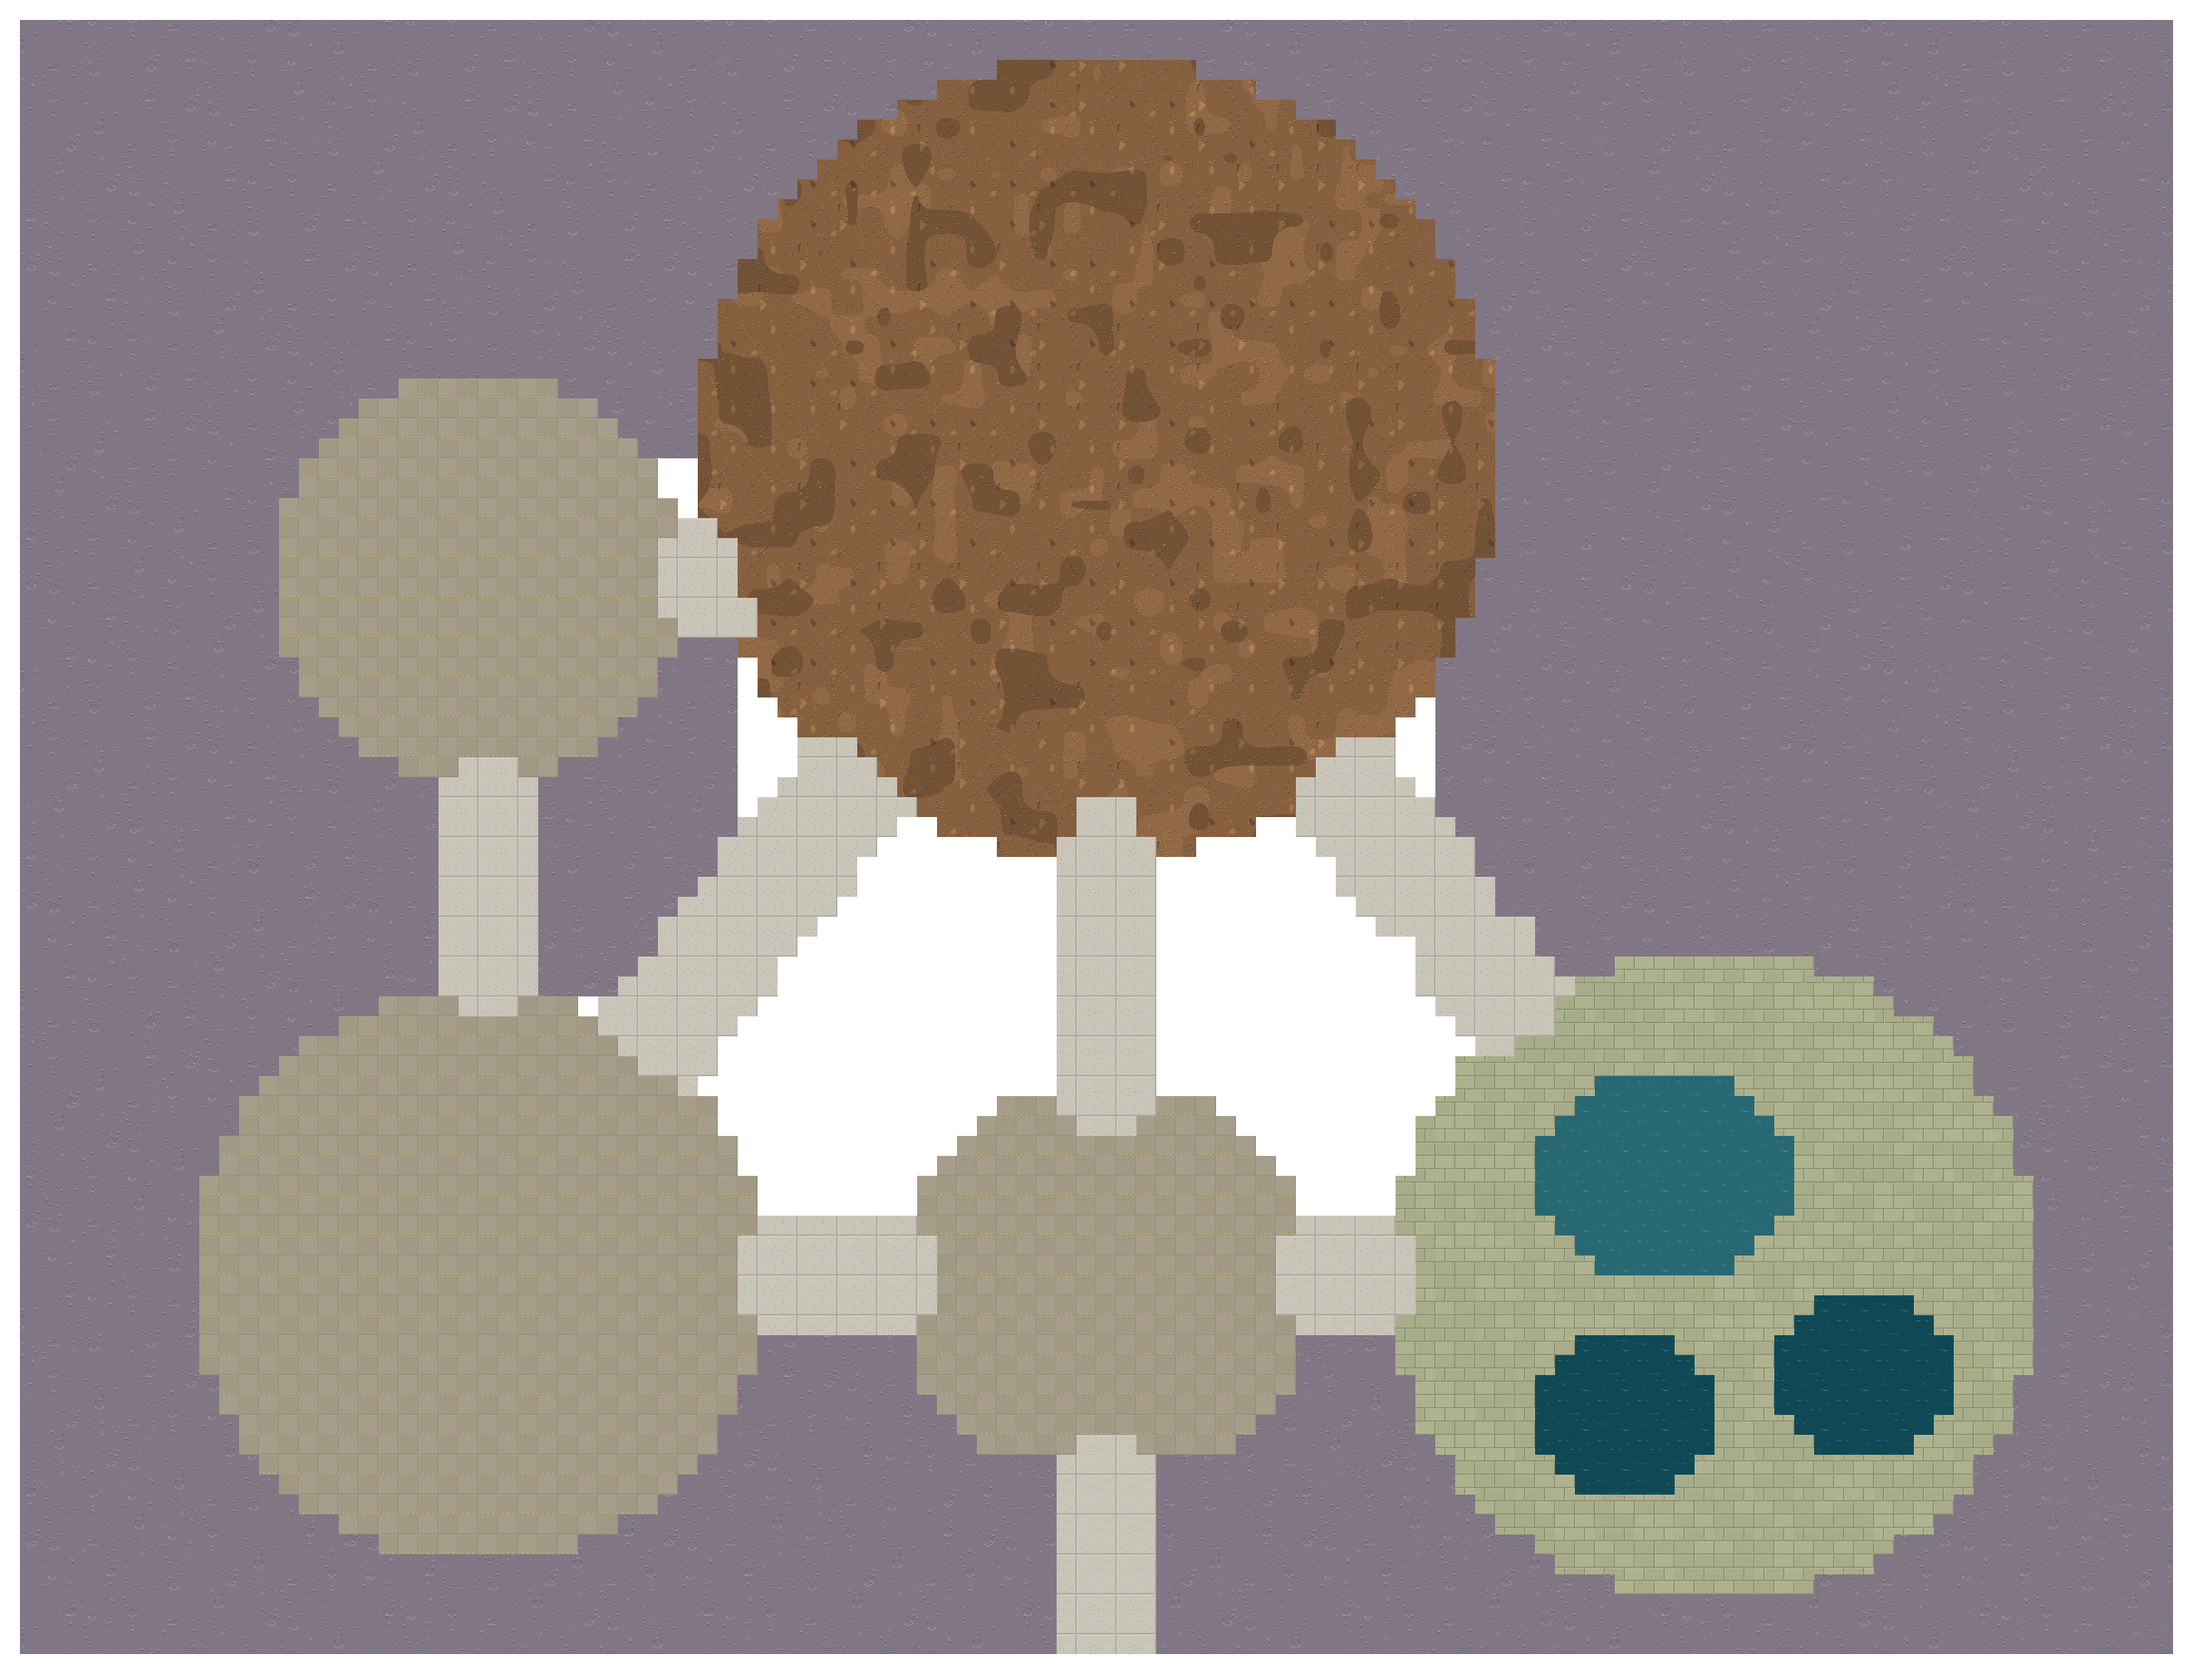
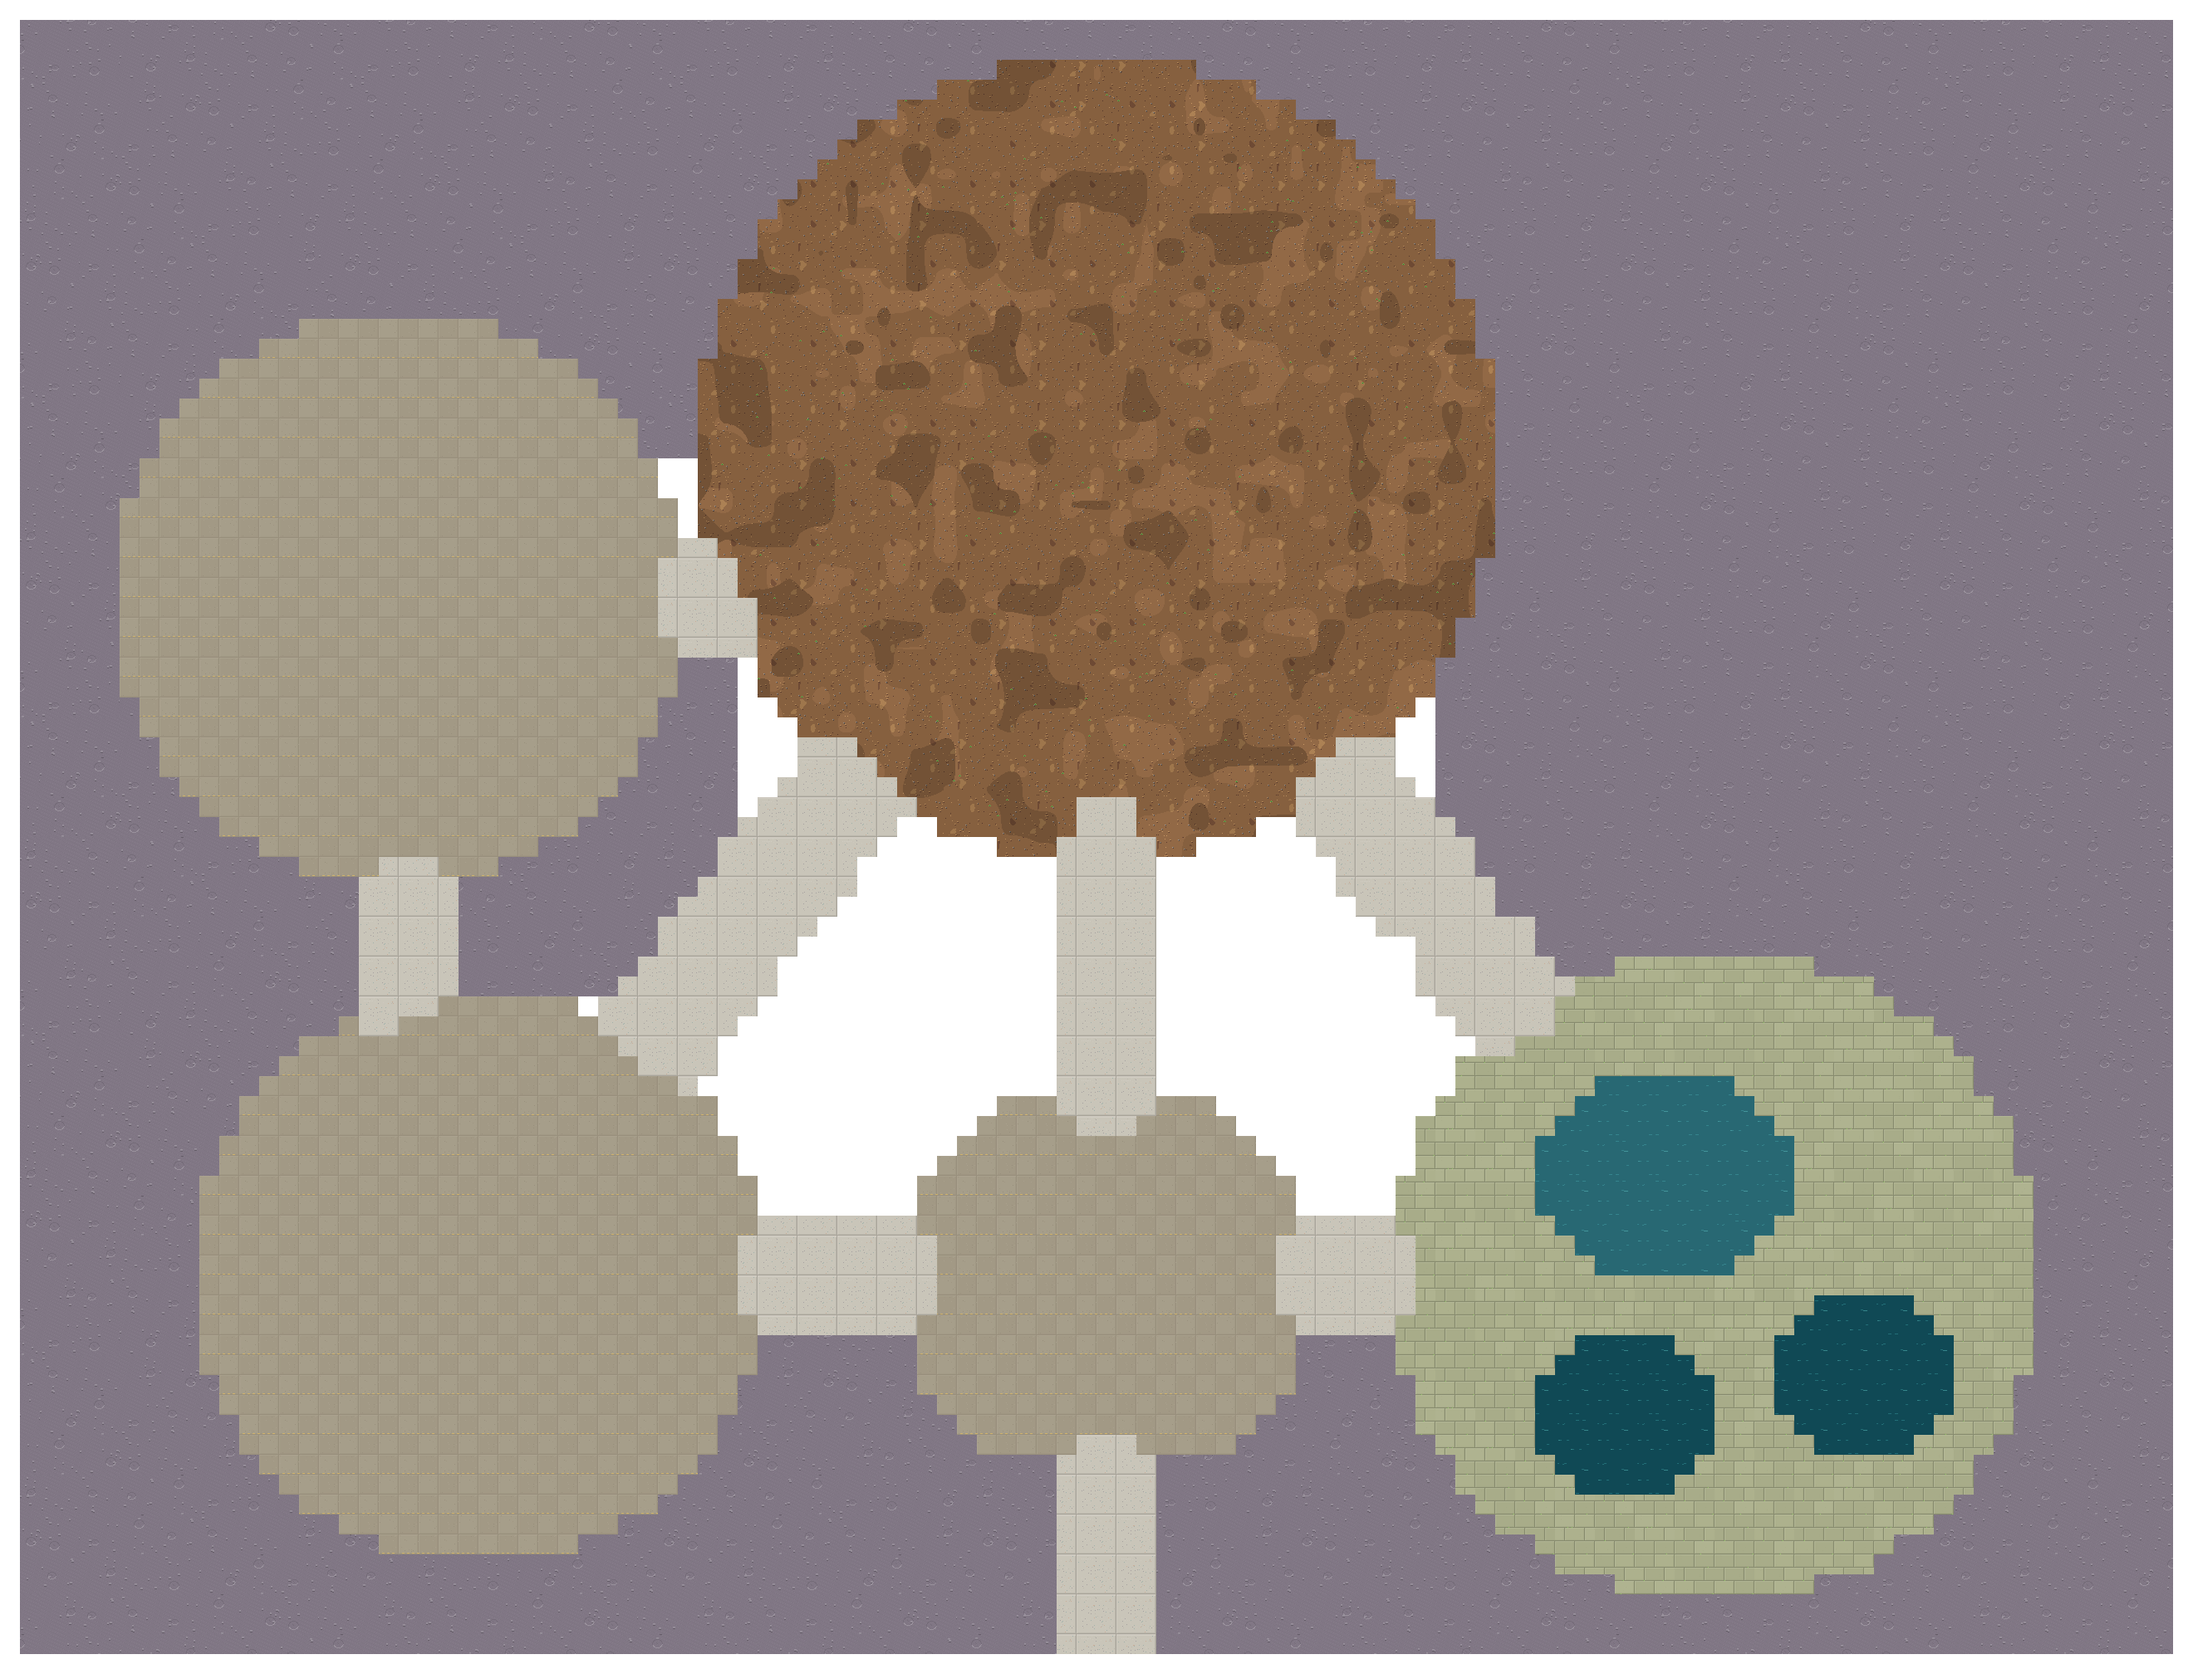
Storage dome the size of the workshop
Zachary: "storage dome i think can be bigger at least size of workshop". The storage dome is a
radius-13 circle like the workshop (26 tiles across, was 18), centred at 20,30 above the workshop.
Its doors move with it (east 33,29; south 20,43), the hallway down to the workshop is x 19-21,
and the wreckage is spread through the bigger room (SEALED_ROOMS box 7,17 - 33,43).

Not run in Godot.

Claude-Session: https://claude.ai/code/session_013NFuzCtsXhGx4vnyseTSue

Changed region(s): [[0.0311, 0.1875, 0.3417, 0.625], [0.2795, 0.3125, 0.3417, 0.3438], [0.2795, 0.25, 0.3106, 0.2812]]

diff --git a/tools/spaceport.py b/tools/spaceport.py
@@ -156,13 +156,13 @@ def build(g):
     # ponds are broken and sealed until S.A.R.A. repairs them (scripts/station_repair.gd): sliding doors with red
     # lights where their hallways meet them (INNER_DOORS, owner "repair:<id>"), and wreckage inside that her
     # drones clear (SEALED_ROOMS).
-    disc(F, 24, 29, 9, 'f')                                      # the storage dome
+    disc(F, 20, 30, 13, 'f')                                     # the storage dome, the workshop's size (Zachary, 23 Nov)
     rock = lambda x0, y0, x1, y1: [F[y].__setitem__(x, 'u') for y in range(y0, y1 + 1) for x in range(x0, x1 + 1) if F[y][x] == '#']
-    rock(34, 27, 40, 30)                                         # hallway east to your agri dome
-    rock(23, 39, 25, 50)                                         # hallway south to your workshop
+    rock(34, 28, 40, 31)                                         # hallway east to your agri dome
+    rock(19, 44, 21, 51)                                         # hallway south to your workshop
     sealed = []                                                  # (x, y, w, h, facing, repair)
-    F[27][33] = F[30][33] = '#'; F[28][33] = F[29][33] = 'u'; sealed.append((33, 28, 1, 2, 'E', 'storage'))
-    F[38][23] = F[38][25] = '#'; F[38][24] = 'u'; sealed.append((24, 38, 1, 1, 'S', 'storage'))
+    F[28][33] = F[31][33] = '#'; F[29][33] = F[30][33] = 'u'; sealed.append((33, 29, 1, 2, 'E', 'storage'))
+    F[43][19] = F[43][21] = '#'; F[43][20] = 'u'; sealed.append((20, 43, 1, 1, 'S', 'storage'))
     # the hot springs and fish ponds: a door where the link from the porch meets them, and a bulkhead across the
     # glass link down from your agri dome
     F[62][70] = F[65][70] = '#'; F[63][70] = F[64][70] = 'u'; sealed.append((70, 63, 1, 2, 'E', 'ponds'))
@@ -174,7 +174,7 @@ def build(g):
     sealed.append((door_x, cross, 1, 1, 'S', 'ponds'))
     for x, y, w_, h_, facing, rid in sealed:
         g.setdefault('INNER_DOORS', []).append(['agri', x, y, w_, h_, facing, 'repair:' + rid, rid])
-    g['SEALED_ROOMS'] = {'storage': ['agri', 14, 19, 33, 38], 'ponds': ['agri', 71, 47, 102, 80]}
+    g['SEALED_ROOMS'] = {'storage': ['agri', 7, 17, 33, 43], 'ponds': ['agri', 71, 47, 102, 80]}
     # Two houses either side of the link up to your field, mirror images about the porch's middle (x 55), their
     # fronts along the porch's top (y 56) and wrapping round its cut corners: yours on the right (aptPlayer), and on
     # the left one for a second player when co-op comes (aptCoop). Their roofs run back to the field dome.
@@ -196,10 +196,10 @@ def build(g):
             if F[y][x] == '#' and (x, y) not in house and not any((x + dx, y + dy) in inside for dx in range(-2, 3) for dy in range(-2, 3)):
                 F[y][x] = 'Q'
     a.t.zones += [['Agri dome', 36, 4, 74, 42], ['Front porch', porch[0], porch[1], porch[2], porch[3]], ['Your workshop', 11, 51, 37, 77],
-                  ['Hot springs & fish ponds', 71, 49, 101, 79], ['Storage dome', 14, 19, 33, 38], ['Glass link', 1, 1, 108, 82]]
+                  ['Hot springs & fish ponds', 71, 49, 101, 79], ['Storage dome', 7, 17, 33, 43], ['Glass link', 1, 1, 108, 82]]
     for x, y, w_, h_, facing, rid in sealed:
         a.keep_clear(x - 2, y - 2, x + w_ + 1, y + h_ + 1)
-    a.keep_clear(32, 26, 41, 31)          # the storage hallway's mouth in the dome
+    a.keep_clear(32, 27, 41, 32)          # the storage hallway's mouth in the dome
     a.keep_clear(53, 38, 57, 60)          # the link up to the dome, and its mouth
     a.keep_clear(53, 66, 57, 82)          # the way in
     a.keep_clear(36, 62, 74, 65)          # workshop - porch - hot springs
@@ -230,8 +230,8 @@ def build(g):
     # trap anyone once the doors open.
     for fx, fy in ((79, 52), (93, 57), (88, 66), (75, 70), (96, 72), (86, 77)): N('rubble', fx, fy, 'Rubble', None)
     for fx, fy in ((84, 51.5), (98, 64), (81, 74), (91, 70)): N('glass_shards', fx, fy, 'Broken glass', None)
-    for fx, fy in ((19, 24), (28, 22), (17, 32), (30, 33), (24, 36)): N('rubble', fx, fy, 'Rubble', None)
-    for fx, fy in ((23, 27), (29, 28), (19, 29)): N('glass_shards', fx, fy, 'Broken glass', None)
+    for fx, fy in ((13, 22), (26, 21), (10, 31), (29, 35), (17, 39), (23, 27)): N('rubble', fx, fy, 'Rubble', None)
+    for fx, fy in ((18, 24), (27, 30), (12, 36), (21, 33)): N('glass_shards', fx, fy, 'Broken glass', None)
     a.thing('look', 'Hot spring', 'Look', 83, 64.5, 40); a.thing('look', 'Fish ponds', 'Look', 87, 72.5, 40)
 
     # ================================================================== hotel (option C, Zachary 17 Nov)
